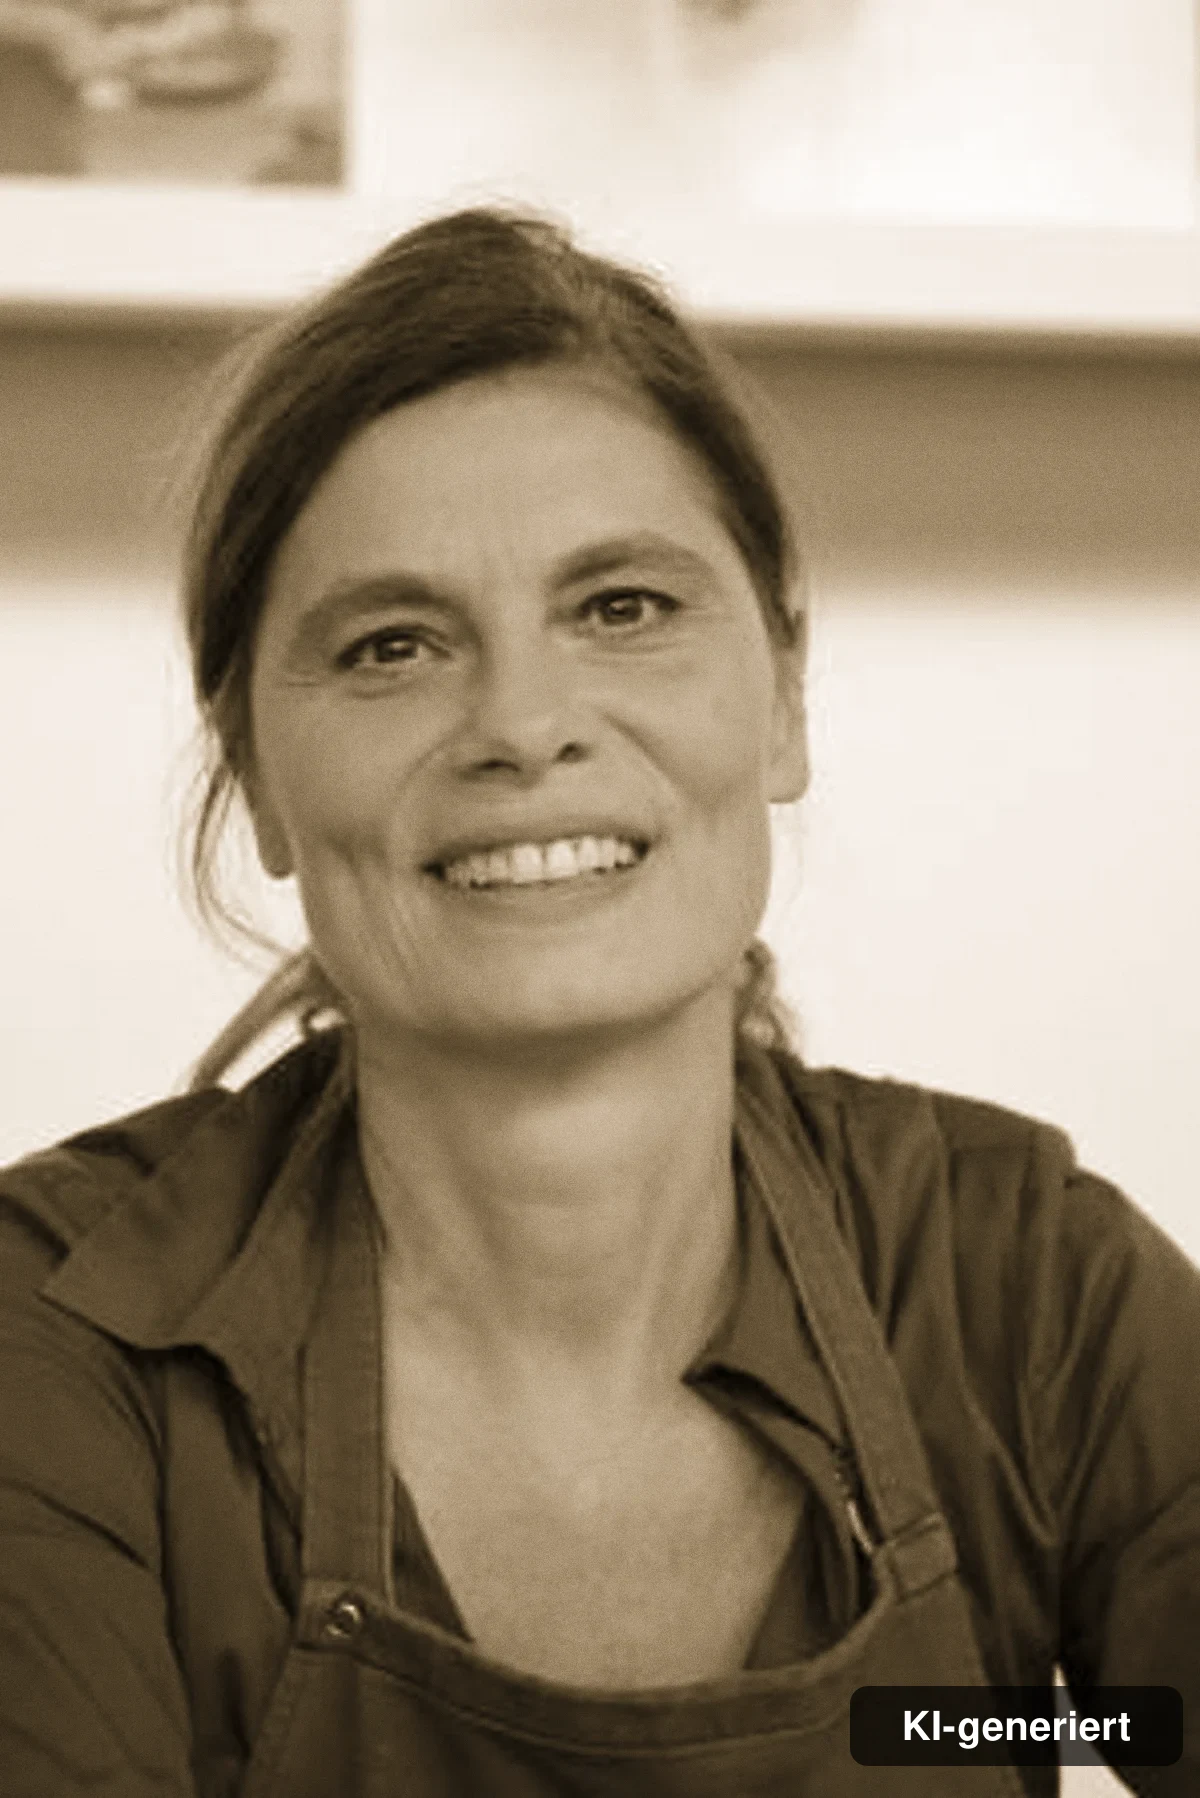
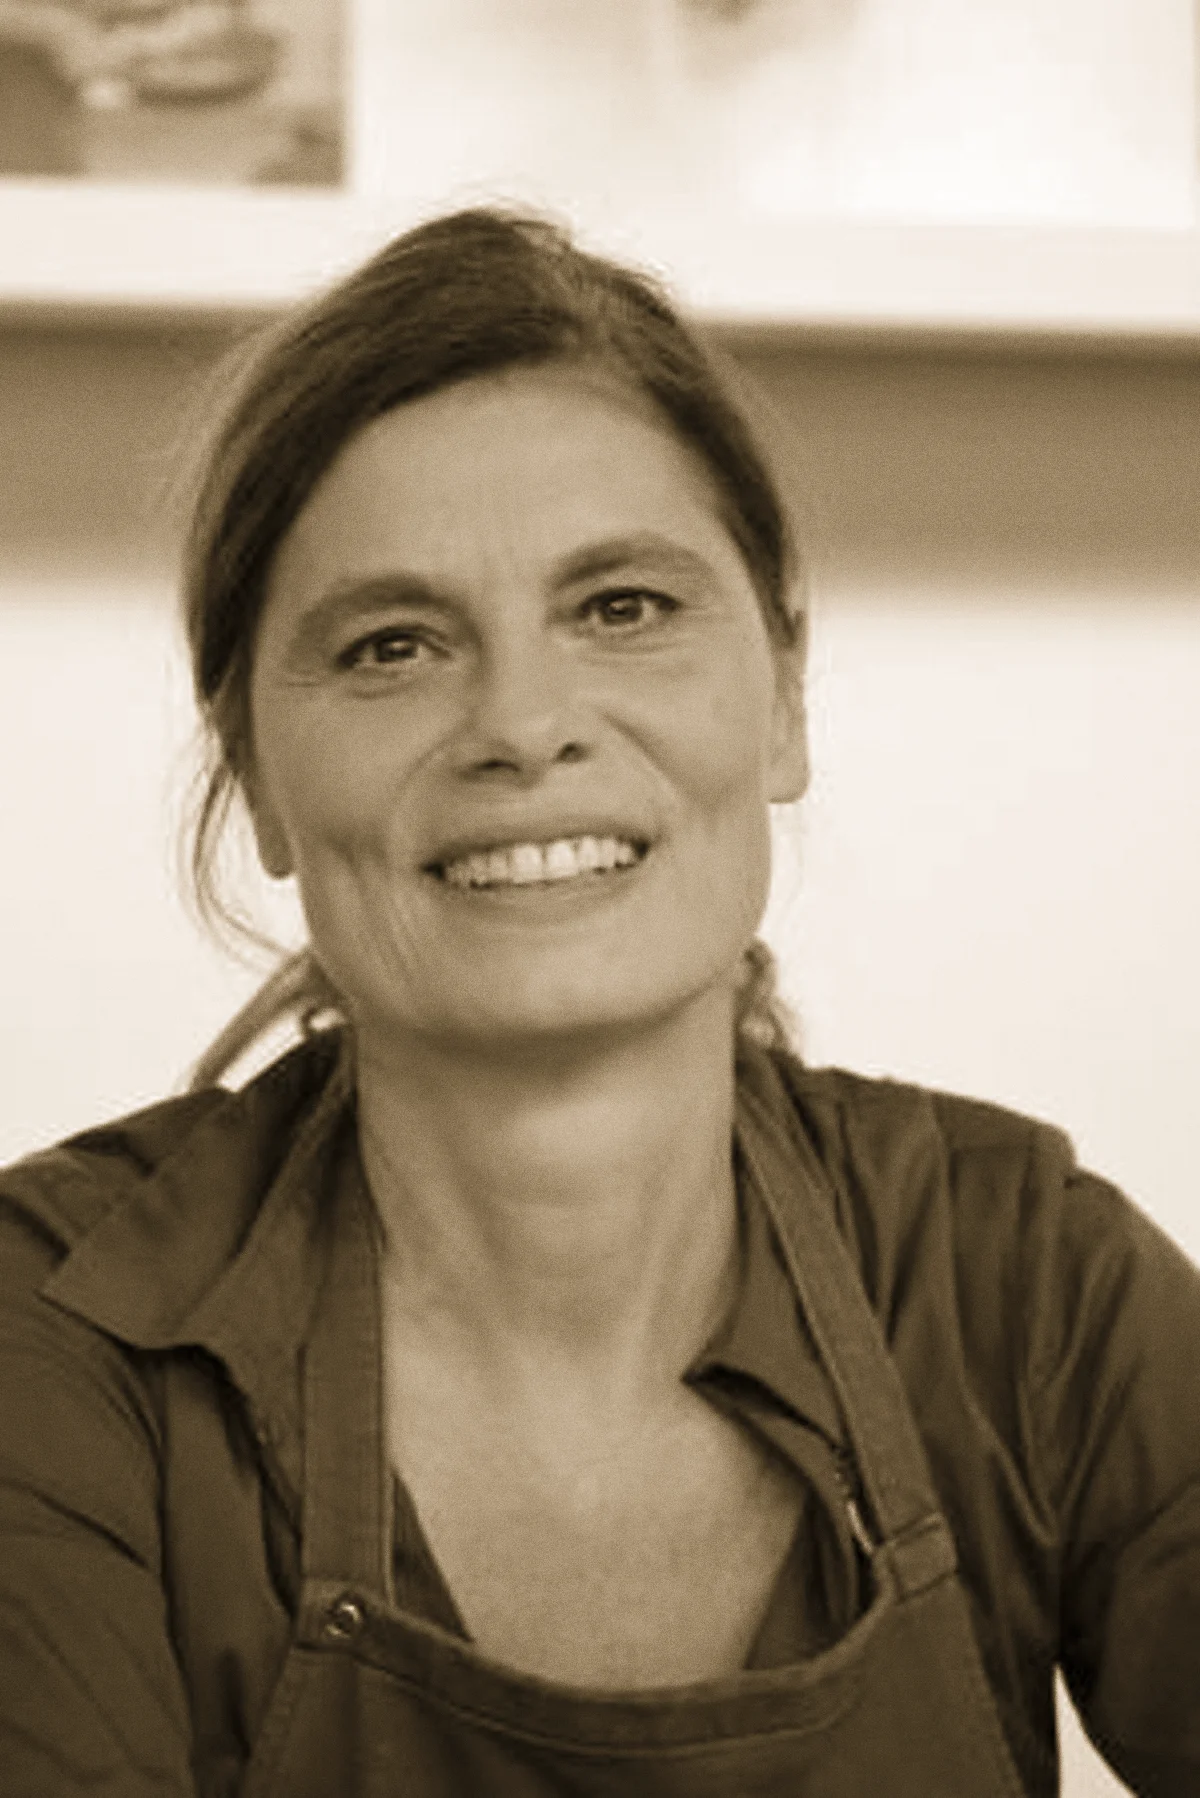
fix(ki-vo): echte Pressefotos faelschlich als KI markiert - korrigiert
Fehler: Die Regel "isNews:false -> KI" war zu grob. Die promi-*-Artikel
sind keine News, nutzen aber lizenzierte Pressefotos (ZDF, RTL, SRF,
SAT.1, Wikimedia CC, Verlagsfotos). 58 Bilder trugen faelschlich Badge
und trainedAlgorithmicMedia.

Ein KI-Label auf einem lizenzierten Pressefoto ist selbst irrefuehrend
(§ 5 UWG) und entwertet die Credit-Angabe des Rechteinhabers.

Korrektur:
- Bilder aus der Git-History vor dem Batch wiederhergestellt (Badge weg)
- nur echten Credit als XMP gesetzt, kein trainedAlgorithmicMedia
- istEchtesFoto() ergaenzt: aiGenerated beruecksichtigt jetzt den Credit,
  nicht nur isNews

Changed region(s): [[0.7092, 0.9344, 0.9867, 0.9967]]

diff --git a/src/components/content/ArticleView.tsx b/src/components/content/ArticleView.tsx
@@ -55,6 +55,16 @@ function sectionCrumb(category: string): { label: string; href: string } {
   return { label: 'Singles & Partnersuche', href: `/${SINGLE_HUB.slug}` };
 }
 
+/**
+ * Echte Pressefotos erkennt man am Credit mit Quellenangabe. Sie duerfen NIE als
+ * KI gekennzeichnet werden — das waere selbst irrefuehrend (§ 5 UWG) und entwertet
+ * die Lizenzangabe des Rechteinhabers.
+ */
+function istEchtesFoto(credit?: string | null): boolean {
+  if (!credit) return false;
+  return /Foto:|Wikimedia|CC[- ]BY|GFDL|dpa|Getty|imago|ZDF|RTL|SRF|ARD|MDR|NDR|SWR|SAT\.1|ProSieben|VOX|Joyn|Verlag|Pressefoto|Autorenfoto/i.test(credit);
+}
+
 export async function buildArticleMetadata(slug: string) {
   const article = await reader.collections.articles.read(slug);
   if (!article) return {};
@@ -169,7 +179,7 @@ export default async function ArticleView({
         date={article.publishedAt || undefined}
         /* News nutzen echte Pressebilder, alles andere ist KI-generiert
            (Art. 50 Abs. 4 KI-VO). */
-        aiGenerated={!article.isNews}
+        aiGenerated={!article.isNews && !istEchtesFoto(article.featuredImageCredit)}
       />
 
       <StickyTOC items={extractH2s(article.content)} />
